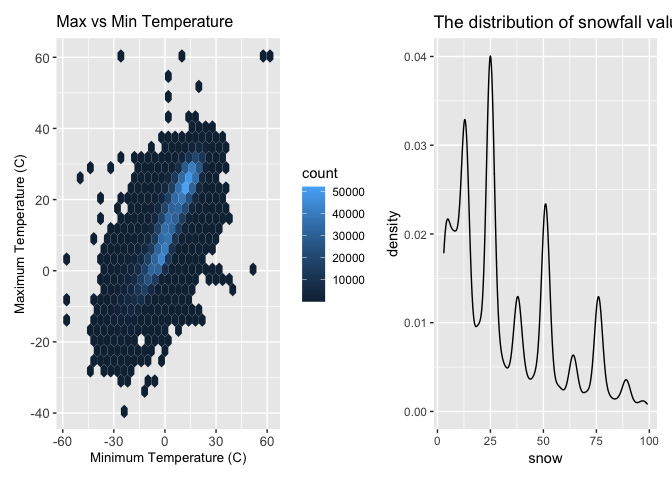
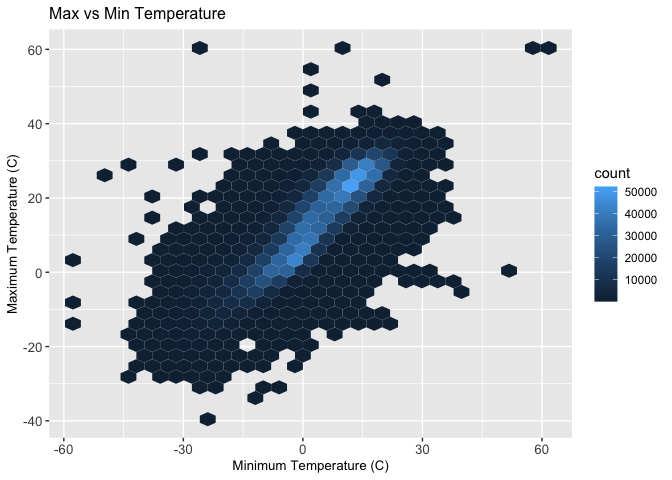
made some changes and ready to submit

diff --git a/fx2184_hw3.md b/fx2184_hw3.md
@@ -341,7 +341,10 @@ plot1= ny_noaa %>%
         theme(plot.title = element_text(size = 12)) +
         theme(axis.title = element_text(size = 10)) +
         theme(axis.text = element_text(size = 10)) 
+plot1
 ```
+
+![](fx2184_hw3_files/figure-gfm/unnamed-chunk-12-1.png)<!-- -->
 
 ``` r
 # make a plot showing the distribution of snowfall values greater than 0 and less than 100 separately by year.
@@ -352,7 +355,12 @@ plot2 = ny_noaa %>%
   geom_density_ridges(alpha=0.8)+
   ggtitle('The distribution of snowfall values between 0 and 100 by year')+
   theme(legend.position = "bottom")
+plot2
 ```
+
+    ## Picking joint bandwidth of 3.76
+
+![](fx2184_hw3_files/figure-gfm/unnamed-chunk-13-1.png)<!-- -->
 
 \#patch work
 
